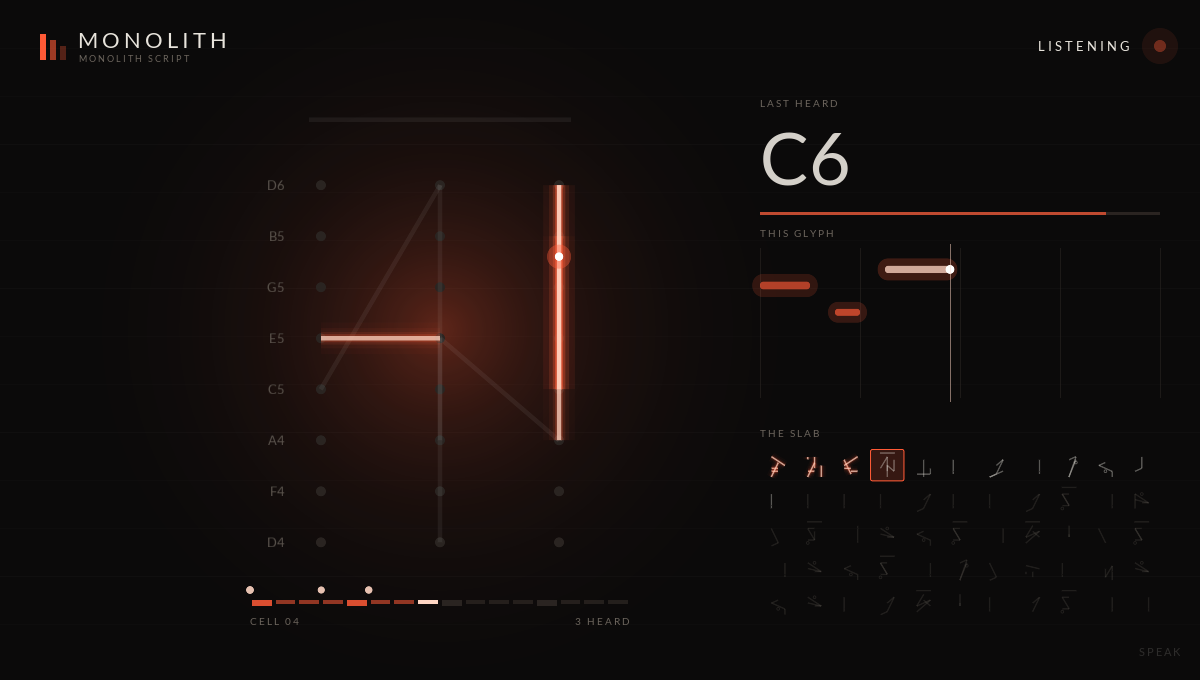
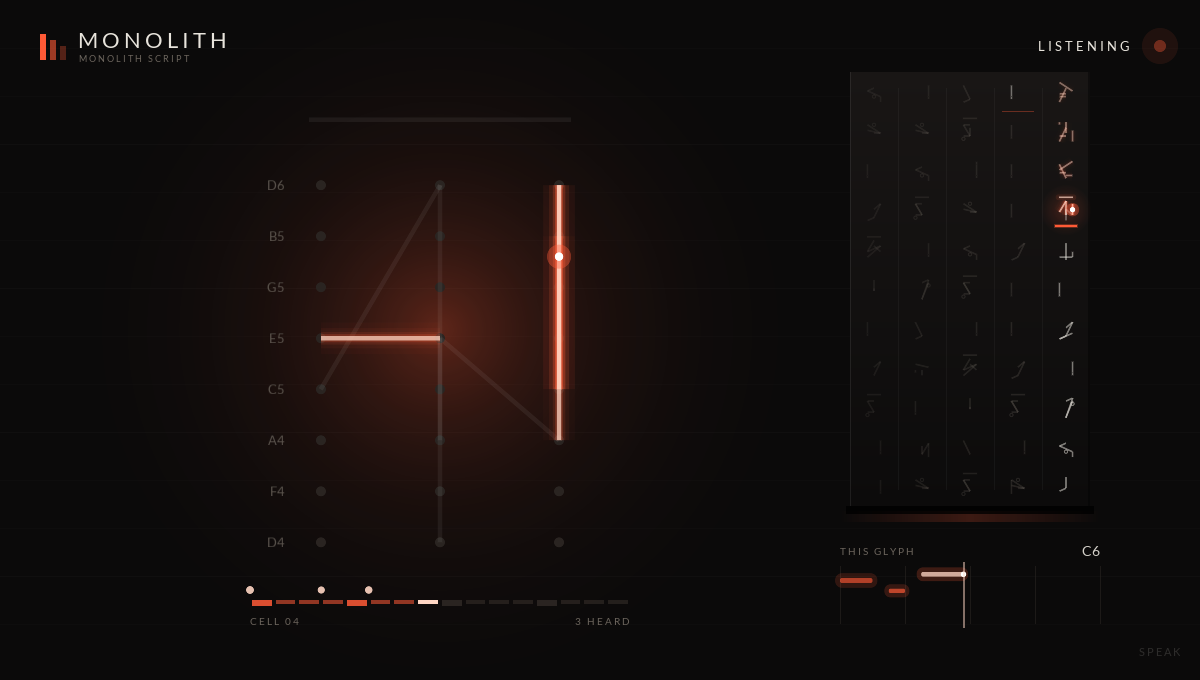
Monolith stage: the slab as on the panel, with a small roll under it
Claude-Session: https://claude.ai/code/session_01FGswf5oxSun5gnGWnyMa9Q

diff --git a/plugins/monolith/src/editor.cpp b/plugins/monolith/src/editor.cpp
@@ -752,12 +752,27 @@ private:
 
 // What the panel becomes in LISTEN: no controls, just the stone listening, made to be captured for a
 // stream. The glyph being carved stands large in the middle, a stroke cut as each note is played,
-// over the faint glyph it replaces. Beside it the last note heard, the notes of the window so far as
-// trails of embers, and the slab, glowing where it has been carved by what it heard. Everything moves
-// with the song's steps, not the clock, so the same frame always draws the same.
+// over the faint glyph it replaces. Beside it the slab stands as it does on the panel, read from the
+// top right down each column, and under that the notes of the window so far as trails of embers,
+// with the last note heard. Everything moves with the song's steps, not the clock, so the same frame
+// always draws the same.
 class StageView : public visage::Frame {
 public:
-   explicit StageView(const SlabFrame &frame) : frame_(frame) {}
+   explicit StageView(const SlabFrame &frame) : frame_(frame), tablet_(frame) {
+      tablet_.setIgnoresMouseEvents(true, false);
+      addChild(&tablet_);
+   }
+
+   void resized() override {
+      const float s = width() / kDesignWidth;
+      tablet_.setBounds(kTablet.x * s, kTablet.y * s, kTablet.w * s, kTablet.h * s);
+   }
+
+   // Redraws the stage and the slab on it, for a new frame.
+   void refresh() {
+      redraw();
+      tablet_.redraw();
+   }
 
    // Back to SPEAK, from the faint button in the corner; and the background menu (UI size), for
    // fitting the window to a capture.
@@ -801,9 +816,7 @@ public:
       drawHeader(c, s, step);
       drawGlyphStage(c, s, step, heat, heard, newest);
       drawWindow(c, s, step, heard);
-      drawLastNote(c, s, step, newest);
-      drawTrails(c, s, step, heard);
-      drawSlab(c, s);
+      drawTrails(c, s, step, heard, newest);
 
       // The way back, barely there until the mouse finds it.
       c.setColor(withAlpha(kText, hover_ ? 0.85f : 0.16f));
@@ -830,6 +843,9 @@ public:
    }
 
 private:
+   // The slab stands on the right, as on the panel and in its shape; the window's notes run under it.
+   static constexpr ui::Rect kTablet{840, 72, 260, 456}, kRoll{840, 566, 260, 58};
+
    bool overSpeak(visage::Point p) const {
       const float s = width() / kDesignWidth;
       return p.x > 1080 * s && p.y > 630 * s;
@@ -928,32 +944,18 @@ private:
       c.text(spaced(line), ui::font(10 * s), visage::Font::kRight, x0, y + 14 * s, w, 16 * s);
    }
 
-   // The last note played, large, with a bar for how hard.
-   void drawLastNote(visage::Canvas &c, float s, float step, int newest) const {
-      const float x = 760 * s, y = 96 * s, w = 400 * s;
-      c.setColor(kDim);
-      c.text(spaced("LAST HEARD"), ui::font(10 * s), visage::Font::kLeft, x, y, w, 16 * s);
-      if (newest < 0) {
-         c.setColor(withAlpha(kDim, 0.5f));
-         c.text("-", ui::font(72 * s), visage::Font::kLeft, x, y + 18 * s, w, 90 * s);
-         return;
-      }
-      const HeardNote &n = frame_.heardNotes[newest];
-      const float age = std::max(0.0f, step - n.start);
-      const float fresh = std::exp(-age * 0.35f);
-      c.setColor(fresh > 0.5f ? kPeach : withAlpha(kText, 0.55f + 0.9f * fresh));
-      c.text(ui::noteName(n.pitch), ui::font(72 * s), visage::Font::kLeft, x, y + 18 * s, w, 90 * s);
-      c.setColor(kEdge);
-      c.fill(x, y + 116 * s, w, 3 * s);
-      c.setColor(withAlpha(kEmber, 0.5f + 0.5f * fresh));
-      c.fill(x, y + 116 * s, w * n.velocity / 127.0f, 3 * s);
-   }
-
    // The window's notes as trails of embers: across in steps, up in pitch.
-   void drawTrails(visage::Canvas &c, float s, float step, int heard) const {
-      const float x = 760 * s, y = 248 * s, w = 400 * s, h = 150 * s;
+   // Under the slab, with the last note heard beside its title.
+   void drawTrails(visage::Canvas &c, float s, float step, int heard, int newest) const {
+      const float x = kRoll.x * s, y = kRoll.y * s, w = kRoll.w * s, h = kRoll.h * s;
       c.setColor(kDim);
       c.text(spaced("THIS GLYPH"), ui::font(10 * s), visage::Font::kLeft, x, y - 22 * s, w, 16 * s);
+      if (newest >= 0) {
+         const HeardNote &n = frame_.heardNotes[newest];
+         const float fresh = std::exp(-std::max(0.0f, step - n.start) * 0.35f);
+         c.setColor(fresh > 0.5f ? kPeach : withAlpha(kText, 0.55f + 0.9f * fresh));
+         c.text(ui::noteName(n.pitch), ui::font(14 * s), visage::Font::kRight, x, y - 25 * s, w, 20 * s);
+      }
       c.setColor(withAlpha(kEdge, 0.6f));
       for (int k = 0; k <= kWindowSteps; k += 4)
          c.fill(x + w * k / kWindowSteps, y, 1, h);
@@ -969,7 +971,7 @@ private:
          const bool held = n.end < 0.0f;
          const float end = std::clamp(held ? std::max(step, n.start + 0.25f) : n.end, 0.0f, 16.0f);
          const float x0 = x + w * std::clamp(n.start, 0.0f, 16.0f) / kWindowSteps, x1 = x + w * end / kWindowSteps;
-         const float py = yOf(n.pitch), t = (3.0f + 5.0f * n.velocity / 127.0f) * s;
+         const float py = yOf(n.pitch), t = (2.0f + 3.0f * n.velocity / 127.0f) * s;
          const float fresh = std::exp(-std::max(0.0f, step - n.start) * 0.35f);
          c.setColor(withAlpha(kEmber, 0.15f + 0.15f * fresh));
          c.roundedRectangle(x0 - t, py - t * 1.5f, std::max(t * 2, x1 - x0 + 2 * t), t * 3, t * 1.5f);
@@ -986,36 +988,8 @@ private:
       }
    }
 
-   // The whole slab small, in reading order: glyphs carved by what it heard glow, the scribe's own
-   // stay pale, and the cell being carved is marked.
-   void drawSlab(visage::Canvas &c, float s) const {
-      constexpr int kAcross = 11;
-      const float x = 760 * s, y = 448 * s, w = 400 * s, h = 172 * s;
-      c.setColor(kDim);
-      c.text(spaced("THE SLAB"), ui::font(10 * s), visage::Font::kLeft, x, y - 22 * s, w, 16 * s);
-      const float cw = w / kAcross, ch = h / kSlabColumns;
-      for (int i = 0; i < kCells; ++i) {
-         const float cx = x + (i % kAcross) * cw, cy = y + (i / kAcross) * ch;
-         const Cell &cell = frame_.cells[i];
-         const bool current = i == frame_.current;
-         const bool carved = cell.word < 0 && cell.glyph.count > 0;
-         const bool inUse = inWindow(i, frame_.start, frame_.length);
-         if (current) {
-            c.setColor(withAlpha(kEmber, 0.18f));
-            c.roundedRectangle(cx + 1 * s, cy + 1 * s, cw - 2 * s, ch - 2 * s, 3 * s);
-            c.setColor(kEmber);
-            c.roundedRectangleBorder(cx + 1 * s, cy + 1 * s, cw - 2 * s, ch - 2 * s, 3 * s, 1.0f * s);
-         }
-         GlyphStyle style;
-         style.thickness = std::max(1.0f, 1.4f * s);
-         style.color = withAlpha(inUse ? kText : kDim, inUse ? 0.35f : 0.22f);
-         style.glow = carved ? (inUse ? 0.55f : 0.3f) : 0.0f;
-         const GlyphBox box = GlyphBox::fit(cx + 4 * s, cy + 3 * s, cw - 8 * s, ch - 6 * s);
-         drawGlyph(c, cell.glyph, cell.visible(), frame_.orthography, box, style);
-      }
-   }
-
    const SlabFrame &frame_;
+   SlabView tablet_;
    bool hover_ = false;
 };
 
@@ -1064,7 +1038,7 @@ public:
       if (frame_.listening != stage_->isVisible())
          stage_->setVisible(frame_.listening);
       if (frame_.listening) {
-         stage_->redraw();
+         stage_->refresh();
          return;
       }
       const int shown = selected_ >= 0 ? selected_ : frame_.current;

diff --git a/plugins/monolith/README.md b/plugins/monolith/README.md
@@ -98,9 +98,9 @@ With no transport (a host that doesn't send one), Monolith keeps its own time at
 
 In LISTEN the controls give way to a display made for capturing on a stream (an OBS window capture,
 say). The glyph being carved stands large in the middle, a stroke cut as each note is played, over
-the faint glyph it replaces. Beside it are the last note heard, the notes of this glyph so far as
-trails of embers, and the whole slab, glowing where it has been carved by what it heard. The light
-in the corner beats with the song.
+the faint glyph it replaces. Beside it stands the slab as it is on the panel, read from the top right
+down each column, and under it a small roll of this glyph's notes so far, with the last note heard.
+The light in the corner beats with the song.
 
 Right-click the stage to pick a UI size that suits the capture. **SPEAK**, faint in the bottom right
 corner until the mouse finds it, switches back to the panel; so does switching MODE from the host.
